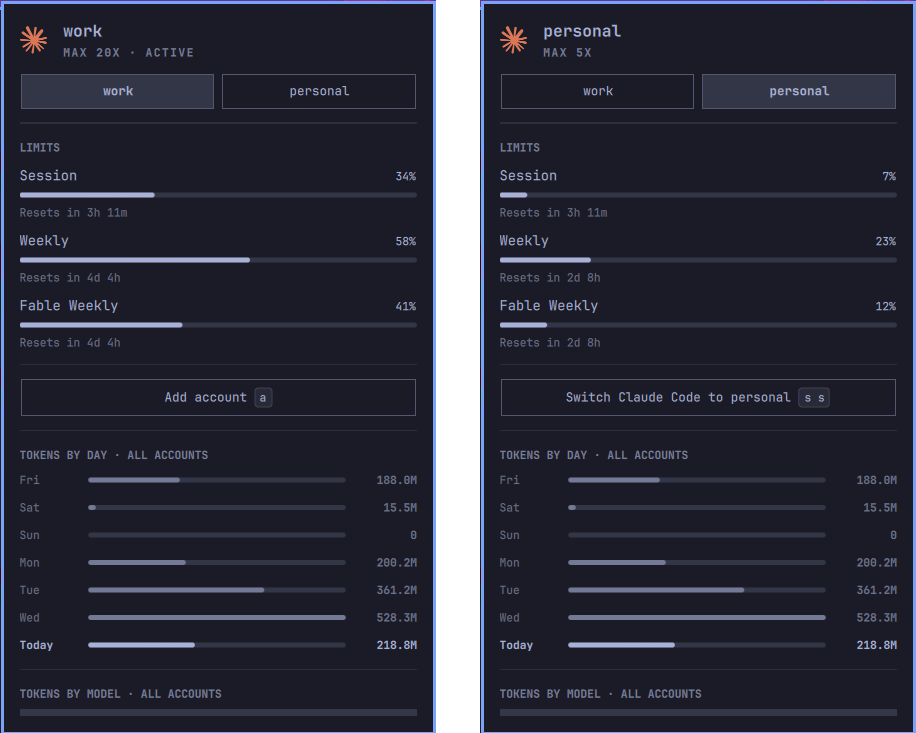
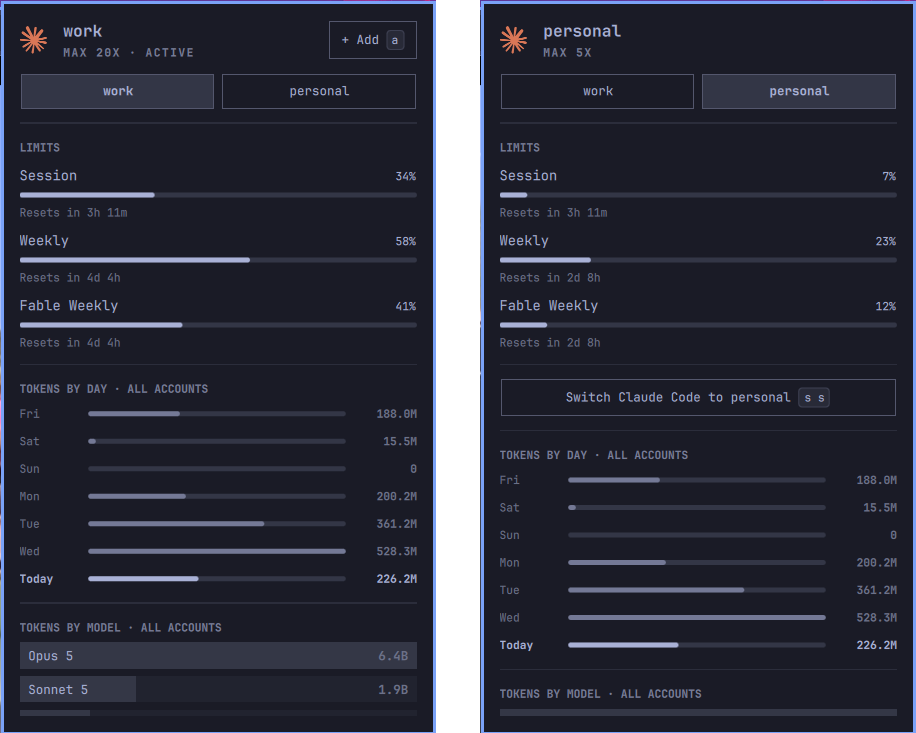
Move the Add account button to the panel header

diff --git a/Panel.qml b/Panel.qml
@@ -563,6 +563,20 @@ Panel {
             foreground: root.foreground
             fontFamily: root.fontFamily
 
+            // Add account sits at the top of the active account's tab, apart
+            // from the limits and charts. `a` works on every Claude tab.
+            trailingControl: Component {
+              KeyButton {
+                visible: root.showAddAccountButton(root.provider)
+                width: implicitWidth
+                label: "+ Add"
+                keys: "a"
+                tooltipText: "Add a claude-swap account"
+                enabled: !root.switchRunning
+                onClicked: root.addAccount()
+              }
+            }
+
             iconComponent: Component {
               Item {
                 id: heroMark
@@ -823,44 +837,25 @@ Panel {
             }
           }
 
-          // ---------- claude-swap: switch and add accounts ----------
+          // ---------- claude-swap: switch account ----------
           PanelSeparator {
-            visible: accountActions.visible
+            visible: switchButton.visible
             foreground: root.foreground
           }
 
           // One click switches; from the keyboard it takes `s` then `s`.
-          // Add account shows on the active account's tab; `a` works on every
-          // Claude tab. A 1 px inset keeps the side borders inside the clip.
-          Column {
-            id: accountActions
-            // Not switchButton.visible: a child of a hidden item always reads as hidden.
-            visible: root.canSwitch(root.provider) || root.showAddAccountButton(root.provider)
+          // A 1 px inset keeps the side borders inside the clip.
+          KeyButton {
+            id: switchButton
+            visible: root.canSwitch(root.provider)
             x: 1
             width: parent.width - 2
-            spacing: Style.spacing.md
-
-            KeyButton {
-              id: switchButton
-              visible: root.canSwitch(root.provider)
-              width: parent.width
-              label: root.switchLabel()
-              keys: root.switchRunning ? "" : (root.switchArmed ? "s" : "s s")
-              selected: root.switchArmed
-              emphasized: root.switchArmed
-              enabled: !root.switchRunning
-              onClicked: root.startSwitch()
-            }
-
-            KeyButton {
-              id: addAccountButton
-              visible: root.showAddAccountButton(root.provider)
-              width: parent.width
-              label: "Add account"
-              keys: "a"
-              enabled: !root.switchRunning
-              onClicked: root.addAccount()
-            }
+            label: root.switchLabel()
+            keys: root.switchRunning ? "" : (root.switchArmed ? "s" : "s s")
+            selected: root.switchArmed
+            emphasized: root.switchArmed
+            enabled: !root.switchRunning
+            onClicked: root.startSwitch()
           }
 
           // ---------- Usage ----------

diff --git a/README.md b/README.md
@@ -4,7 +4,7 @@ An Omarchy bar plugin for people with more than one Claude account in [claude-sw
 
 This plugin is not part of claude-swap. It only uses the `cswap` command.
 
-![The panel with two claude-swap accounts: the active work account with the Add account button, and the personal account with its switch button. Both tabs show the token charts for all accounts.](preview.png)
+![The panel with two claude-swap accounts: the active work account with the Add button, and the personal account with its switch button. Both tabs show the token charts for all accounts.](preview.png)
 
 The plugin is a copy of the Omarchy Agents panel (`omarchy.agents`) with these changes:
 
@@ -12,7 +12,7 @@ The plugin is a copy of the Omarchy Agents panel (`omarchy.agents`) with these c
 - The Claude tabs stay in the claude-swap account order. Key `1` always shows account 1, also after a switch.
 - The active account shows `active` next to its plan.
 - An inactive account has a switch button. From the keyboard, a switch needs two key presses, so a look at the usage never switches the account.
-- The Add account button opens a terminal that adds an account to claude-swap.
+- The Add button at the top of the active account's tab opens a terminal that adds an account to claude-swap.
 - If claude-swap is not installed, the Claude tab shows the install command.
 - The bar icon warns about the limits of the active Claude account, also when the panel was last open on the tab of another account.
 - The token charts show on each Claude tab, with the label `ALL ACCOUNTS`. Claude Code does not record the account in its session files, so the charts show the tokens of all accounts together.
@@ -41,7 +41,7 @@ The plugin takes the place of the Agents panel (`omarchy.agents`) in the bar. Do
 
 ## Add accounts
 
-Open the panel on the tab of the active account. Click Add account, or push `a`. A terminal opens and does these steps:
+Open the panel on the tab of the active account. Click `+ Add` at the top right, or push `a`. A terminal opens and does these steps:
 
 1. claude-swap saves the account that Claude Code uses now.
 2. You log in with the account to add. The login opens in the browser.
